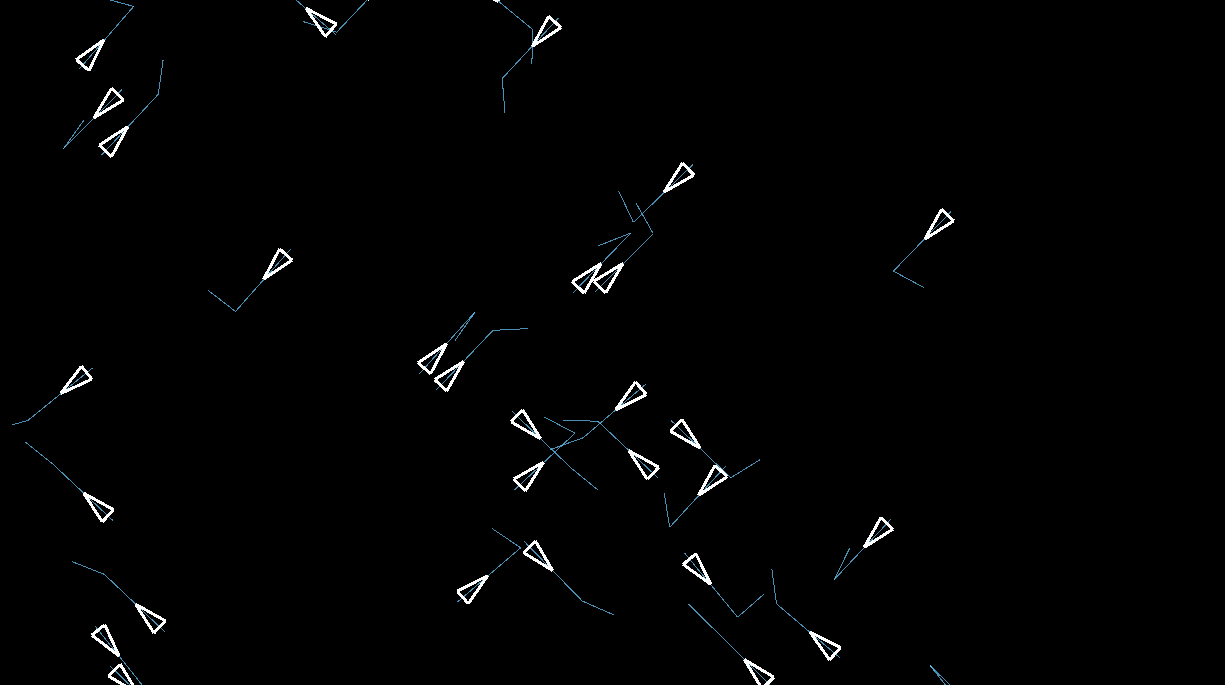
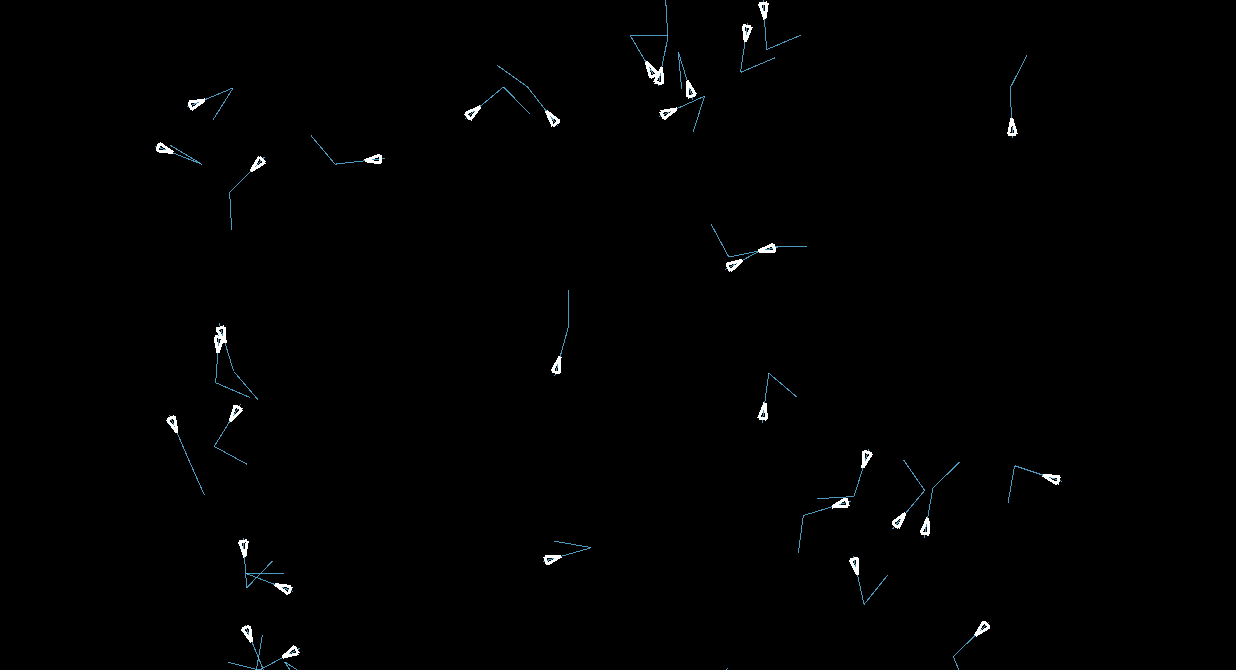
update wiggling critter demo

diff --git a/P4-Agents/2-wander/demo.js b/P4-Agents/2-wander/demo.js
@@ -316,15 +316,16 @@ Main.prototype = $extend(hxd_App.prototype,{
 		var cp1 = new support_h2d_ui_BasicControls(cp,this1.loadCache("fonts/NotoSans32.fnt",hxd_res_BitmapFont).toFont());
 		cp1.set_backgroundColor(new support_color_HSL(240,0.4,0.75,0.25));
 		cp1.addText("== critter properties ==");
-		this.size = cp1.addSlider("critter size",2,32);
-		this.force = cp1.addSlider("force",0,500);
+		this.size = cp1.addSlider("size",2,32);
+		this.force = cp1.addSlider("crawl speed",0,500);
+		cp1.addSpacing(1);
 		cp1.addText("== whisker properties ==");
 		this.whisker = cp1.addSlider("visibility",0,1);
-		this.radius = cp1.addSlider("wiggle",0,100);
-		this.speed = cp1.addSlider("length",0,100);
+		this.wiggle = cp1.addSlider("wiggle",0,Math.PI / 4);
+		this.length = cp1.addSlider("length",0,100);
 		this.force.set_value(250);
-		this.speed.set_value(50);
-		this.radius.set_value(40);
+		this.length.set_value(50);
+		this.wiggle.set_value(Math.PI / 8);
 		this.size.set_value(8);
 		this.whisker.set_value(0.25);
 		new support_h2d_FullscreenButton(this.s2d);
@@ -392,14 +393,14 @@ Main.prototype = $extend(hxd_App.prototype,{
 		while(_g < _g1.length) {
 			var node = _g1[_g];
 			++_g;
-			var p = this.pointToSeek(node,this.speed.get_value(),this.radius.get_value());
+			var p = this.pointToSeek(node,this.length.get_value(),this.length.get_value() * 0.75);
 			node.seek(p,this.force.get_value(),50);
 			node.bounds();
 			node.integrate(dt);
 		}
 	}
 	,pointToSeek: function(node,speed,radius) {
-		var angle = Math.random() * Math.PI * 2;
+		node.whiskerAngle += (Math.random() * 2 - 1) * this.wiggle.get_value();
 		var this1 = node.vel;
 		var this2 = new Array(2);
 		var this3 = this2;
@@ -433,6 +434,7 @@ Main.prototype = $extend(hxd_App.prototype,{
 		this1[0] += rhs[0];
 		this1[1] += rhs[1];
 		var posOffset = this1;
+		var angle = node.whiskerAngle;
 		var x = Math.cos(angle) * radius;
 		var y = Math.sin(angle) * radius;
 		var this1 = new Array(2);
@@ -499,6 +501,7 @@ support_linAlg2d_Interval.prototype = {
 	,__class__: support_linAlg2d_Interval
 };
 var Node = function() {
+	this.whiskerAngle = Math.random() * Math.PI * 2;
 	var a_0 = 0;
 	var a_1 = 0;
 	var this1 = new Array(2);

diff --git a/P4-Agents/2-wander/index.md b/P4-Agents/2-wander/index.md
@@ -1,7 +1,7 @@
 ---
 layout: demo
 section: P4 Agents
-title: Wandering Criters
+title: Wiggling Criters
 order: 2
 ---
 
